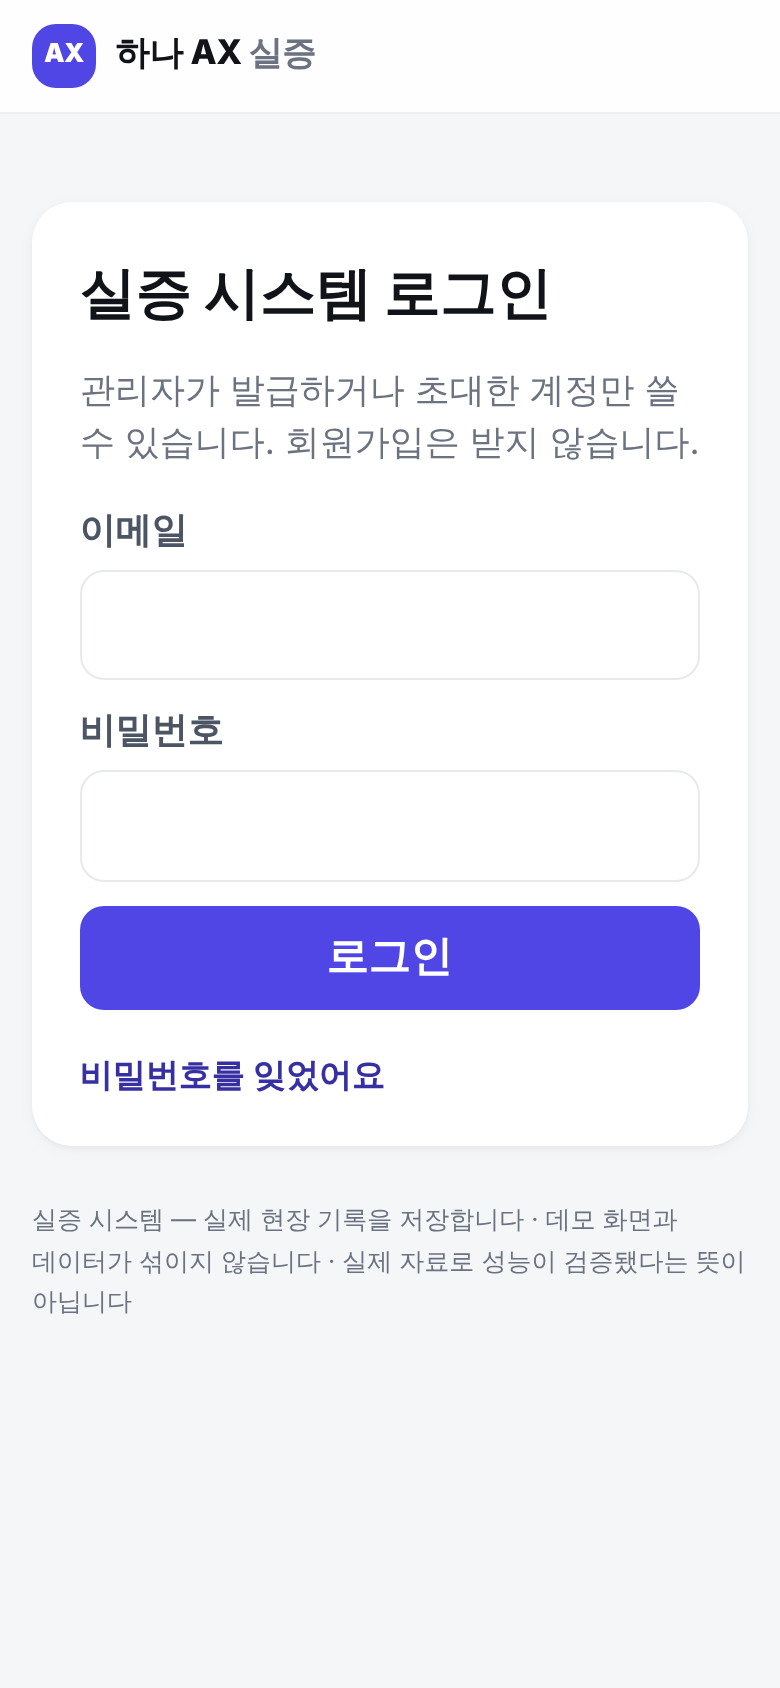
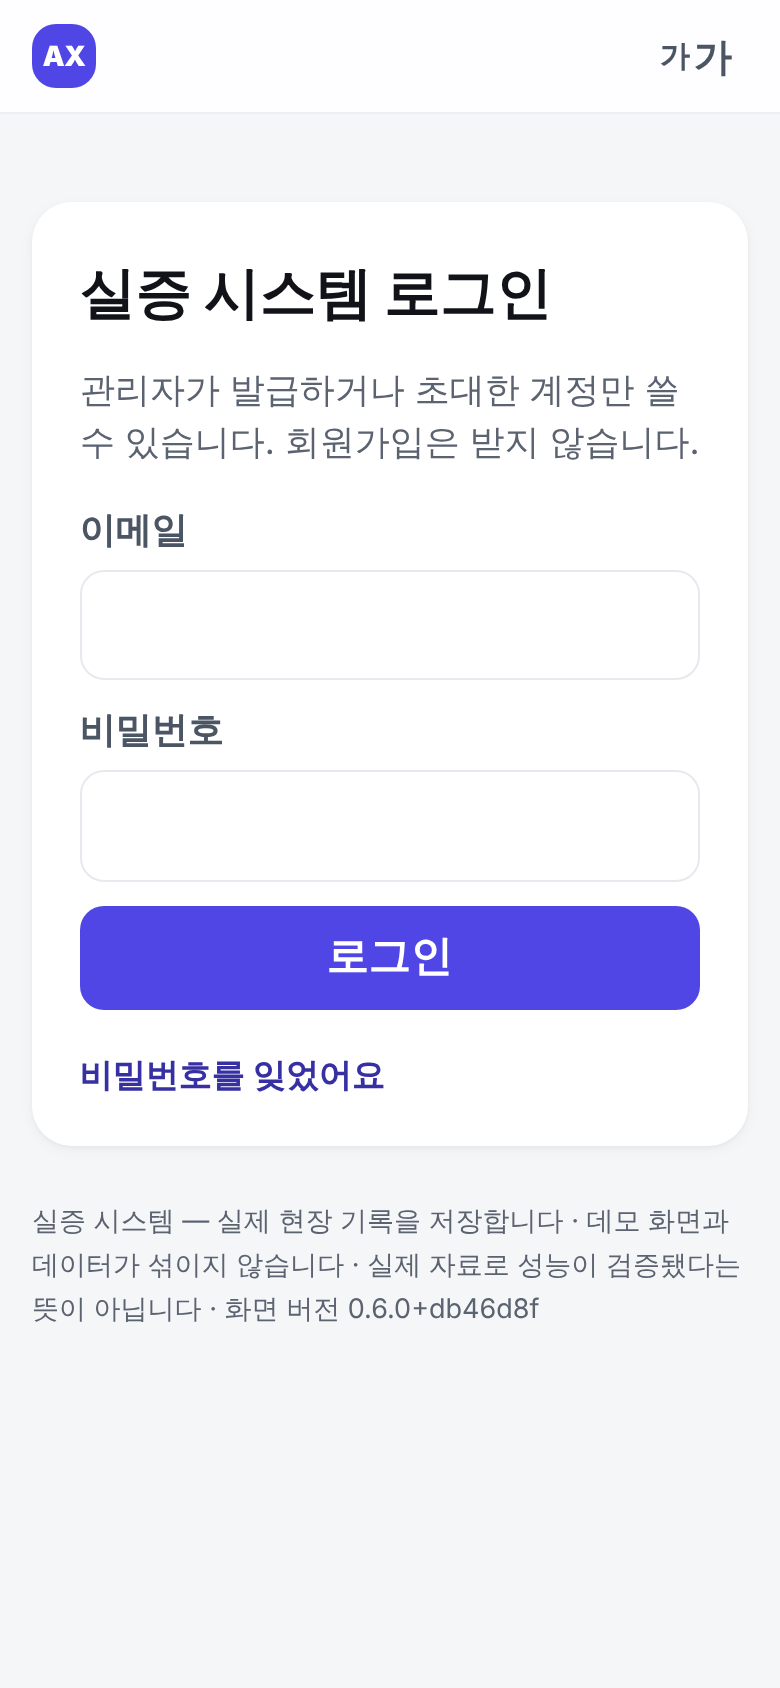
지난 화면 캡처(ui-0.4.0) 다시 찍음: 0.6.0 화면 · 새 지명 · 시작 전 점검 먼저
Claude-Session: https://claude.ai/code/session_01TafYCQiR81y12ZDrCizs9W

diff --git a/docs/evidence/ui-0.4.0/README.md b/docs/evidence/ui-0.4.0/README.md
@@ -1,9 +1,16 @@
 # 하나 AX 0.4.0 UI/UX 개편 — 화면 사진 · 회귀 기록 (2026-11-16)
 
+> **화면 사진 다시 찍음 (2026-11-16 저녁, 화면 버전 0.6.0+db46d8f)**
+> - 사용자 지시로 다시 찍었습니다. 지명을 충남·충북·전북으로 바꿨고(`docs/REGION_CHANGE_2026-11-16.md`), 화면은 0.6.0 안전 1순위 기준입니다.
+> - 현장 흐름도 안전 1순위에 맞췄습니다: 시작 전 안전점검을 낸 뒤 작업 시작.
+> - 찍기 전에 로컬 DB를 초기화했습니다. 그래서 화면 숫자는 이 스크립트가 만든 기록만 셉니다.
+> - 0.4.0 당시 사진은 저장소 기록(git)에 남아 있습니다.
+> - 아래 `test-run-*.txt`는 그때 돌린 회귀 원문이라 고치지 않았습니다. 옛 지명이 남아 있을 수 있습니다.
+
 > **현장 실증 자료가 아닙니다.**
 > - 이 개발 환경의 로컬 Supabase에 시험 스크립트(`tests-pilot/e2e/ui-shots.mjs`)가 만든 **검증 시나리오(가상)** 자료로 찍었습니다.
 > - 사람 · 현장 이름과 사진은 시험용입니다. 사진은 화면 캡처를 JPEG로 저장한 시험용 이미지입니다.
-> - 화면 숫자에는 같은 로컬 DB에 쌓인 앞선 자동 시험 기록이 함께 세어져 있습니다.
+> - (0.4.0 당시) 화면 숫자에는 같은 로컬 DB에 쌓인 앞선 자동 시험 기록이 함께 세어져 있었습니다.
 > - 휴대폰 화면은 같은 컴퓨터 브라우저의 390px 휴대폰 흉내 화면이며, 실제 휴대폰 시험이 아닙니다.
 
 | 파일 | 내용 |

diff --git a/docs/UI_UX_0.4.0.md b/docs/UI_UX_0.4.0.md
@@ -193,6 +193,8 @@
 
 ## 7. 화면 사진 (`docs/evidence/ui-0.4.0/`)
 
+> 2026-11-16 저녁에 0.6.0 화면 · 새 지명(충남·충북·전북)으로 다시 찍었습니다. 아래 설명은 0.4.0 기준이라 대시보드 칸 이름 등이 다를 수 있습니다. 현재 기준은 [`docs/SAFETY_FIRST_0.6.0.md`](SAFETY_FIRST_0.6.0.md)입니다.
+
 | 파일 | 화면 |
 |---|---|
 | `m01_field_today.png` | 현장 첫 화면 — 지금 할 일 · 아래 고정 버튼 · 하단 탭 |
